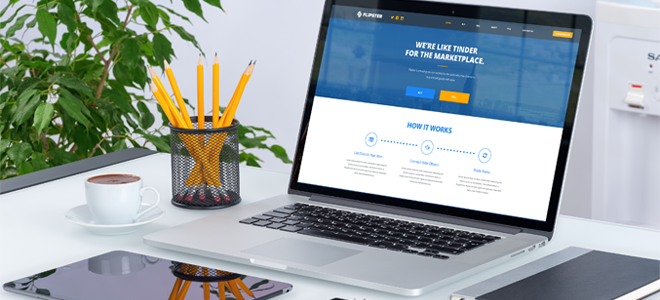
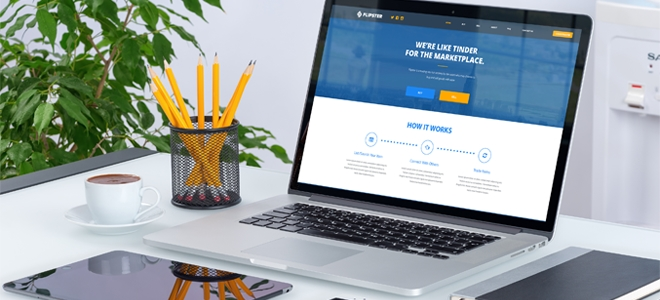
Compressed and organized images

diff --git a/css/style.scss b/css/style.scss
@@ -672,10 +672,16 @@ $shadow: 0px 3px 5px rgba(darken($primary, 30%), 0.2);
         }
     }
     .grid-item--width2 {
-        width: 400px;
+        width: 420px;
+        img {
+            width: 420px;
+        }
     }
     .grid-item--height2 {
-        height: 400px;
+        height: 420px;
+        img {
+            height: 420px;
+        }
     }
 }
 #cta {

diff --git a/index.php b/index.php
@@ -155,37 +155,37 @@ if(isset($_POST["submit"])) {
 				</div>
                 <div class="grid">
                     <div class="grid-item animated fade-in-up item-cafe">
-                        <img src="img/200x200bvc.png">
+                        <img src="img/200x200/bvc.png">
                         <div class="grid-info">
                             <h1>Bonne Vie Café</h1>
                         </div>
                     </div>
                     <div class="grid-item animated fade-in-up item-rogue">
-                        <img src="img/200x200rogue.png">
+                        <img src="img/200x200/rogue.png">
                         <div class="grid-info">
                             <h1>Rogue</h1>
                         </div>
                     </div>
                     <div class="grid-item grid-item--width2 grid-item--height2 animated fade-in-up item-feedshare">
-                        <img src="img/400x400feedshare.png">
+                        <img src="img/400x400/feedshare.png">
                         <div class="grid-info">
                             <h1>FeedShare</h1>
                         </div>
                     </div>
                     <div class="grid-item grid-item--width2 animated fade-in-up item-flipster">
-                        <img src="img/400x200flipster.png">
+                        <img src="img/400x200/flipster.png">
                         <div class="grid-info">
                             <h1>Flipster</h1>
                         </div>
                     </div>
                     <div class="grid-item grid-item--width2 grid-item--height2 animated fade-in-up item-myneu">
-                        <img src="img/400x400myneu.png">
+                        <img src="img/400x400/myneu.png">
                         <div class="grid-info">
                             <h1>Modern MyNEU</h1>
                         </div>
                     </div>
                     <div class="grid-item grid-item--width2 grid-item--height2 animated fade-in-up item-sthacks">
-                        <img src="img/400x400sth.png">
+                        <img src="img/400x400/sth.png">
                         <div class="grid-info">
                             <h1>Sthacks</h1>
                         </div>

diff --git a/cafe.php b/cafe.php
@@ -1,6 +1,7 @@
 <div class="item-content valign-mid">
     <div class="item-view container animate fade-in-up">
         <h1>Bonne Vie Café</h1>
+        <span class="underscore-pls"></span>
         <p>Bonne Vie Café began as a mockup design made for a college student. He had very little requirements, other than to satisfy a number of sections. When he came to me, I knew just how to build the perfect site.</p>
         <p>I started by designing a wireframe and various slides in Adobe Photoshop and InDesign. The customer instantly fell in love and we went from there. I built the site from scratch using various amounts of PHP and Javascript to handle contact/review forms and table reservations. Everything else was made using HTML and CSS.</p>
         <p>Users can book a reservation in just a few clicks. I utilized Zapla's table management API to allow potential restaurant-goers to see what number of tables are available.</p>

diff --git a/rogue.php b/rogue.php
@@ -1,6 +1,7 @@
 <div class="item-content valign-mid">
     <div class="item-view container animate fade-in-up">
         <h1>Rogue</h1>
+        <span class="underscore-pls"></span>
         <p>Rogue was designed as a simple one-page demo of a client-side application for the famous Counter Strike: Global Offensive game. The client wanted an effective means of showcasing the power of their application, so a full-page live video runs above the fold for every user that reaches the site.</p>
         <p>Each user that came across the page could view the primary features of the application and request a license with a simple one-click checkout. The footer kept track of the hundreds of users who had installed the application, and allowed new buyers to email their questions to the client.</p>
         <a target="_blank" href="http://demo.abbondanzo.com/rogue/"><button class="btn">View Demo</button></a>

diff --git a/myneu.php b/myneu.php
@@ -1,6 +1,7 @@
 <div class="item-content valign-mid">
     <div class="item-view container animate fade-in-up">
         <h1>Modern MyNEU</h1>
+        <span class="underscore-pls"></span>
         <p></p>
         <a target="_blank" href="https://chrome.google.com/webstore/detail/modern-myneu/phpjhjbppfdgofldhpecojjdfccboblk"><button class="btn">View Extension</button></a>
         <i class="fa fa-times contact-close" aria-hidden="true"></i>

diff --git a/sthacks.php b/sthacks.php
@@ -1,6 +1,7 @@
 <div class="item-content valign-mid">
     <div class="item-view container animate fade-in-up">
         <h1>Sthacks</h1>
+        <span class="underscore-pls"></span>
         <p></p>
         <a target="_blank" href="https://github.com/Sthacks/sthacksWebsite"><button class="btn">View Repo</button></a>
         <i class="fa fa-times contact-close" aria-hidden="true"></i>

diff --git a/feedshare.php b/feedshare.php
@@ -1,6 +1,7 @@
 <div class="item-content valign-mid">
     <div class="item-view container animate fade-in-up">
         <h1>FeedShare</h1>
+        <span class="underscore-pls"></span>
         <p></p>
         <a target="_blank" href="http://feedshare.org/"><button class="btn">View App</button></a>
         <i class="fa fa-times contact-close" aria-hidden="true"></i>
